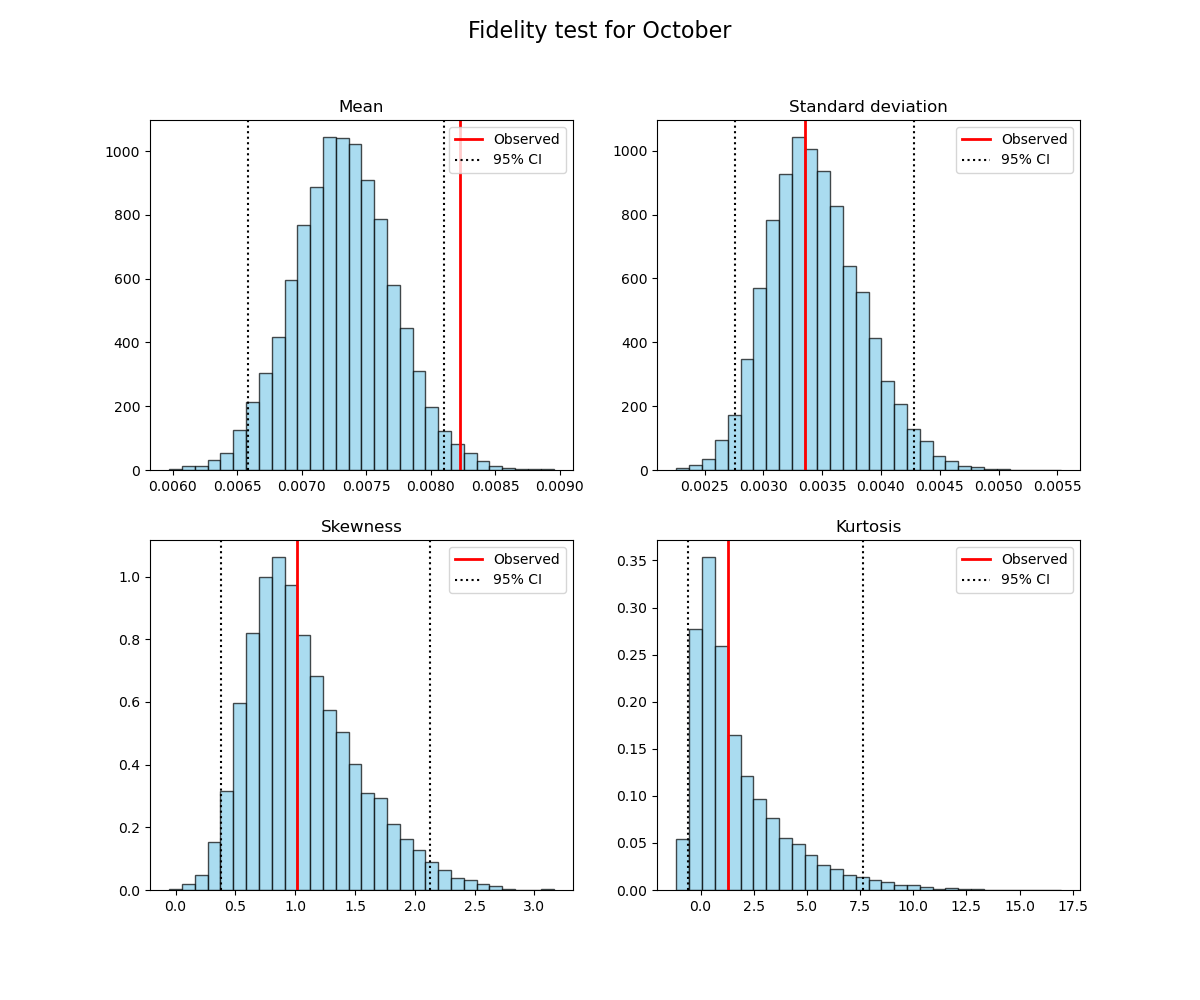
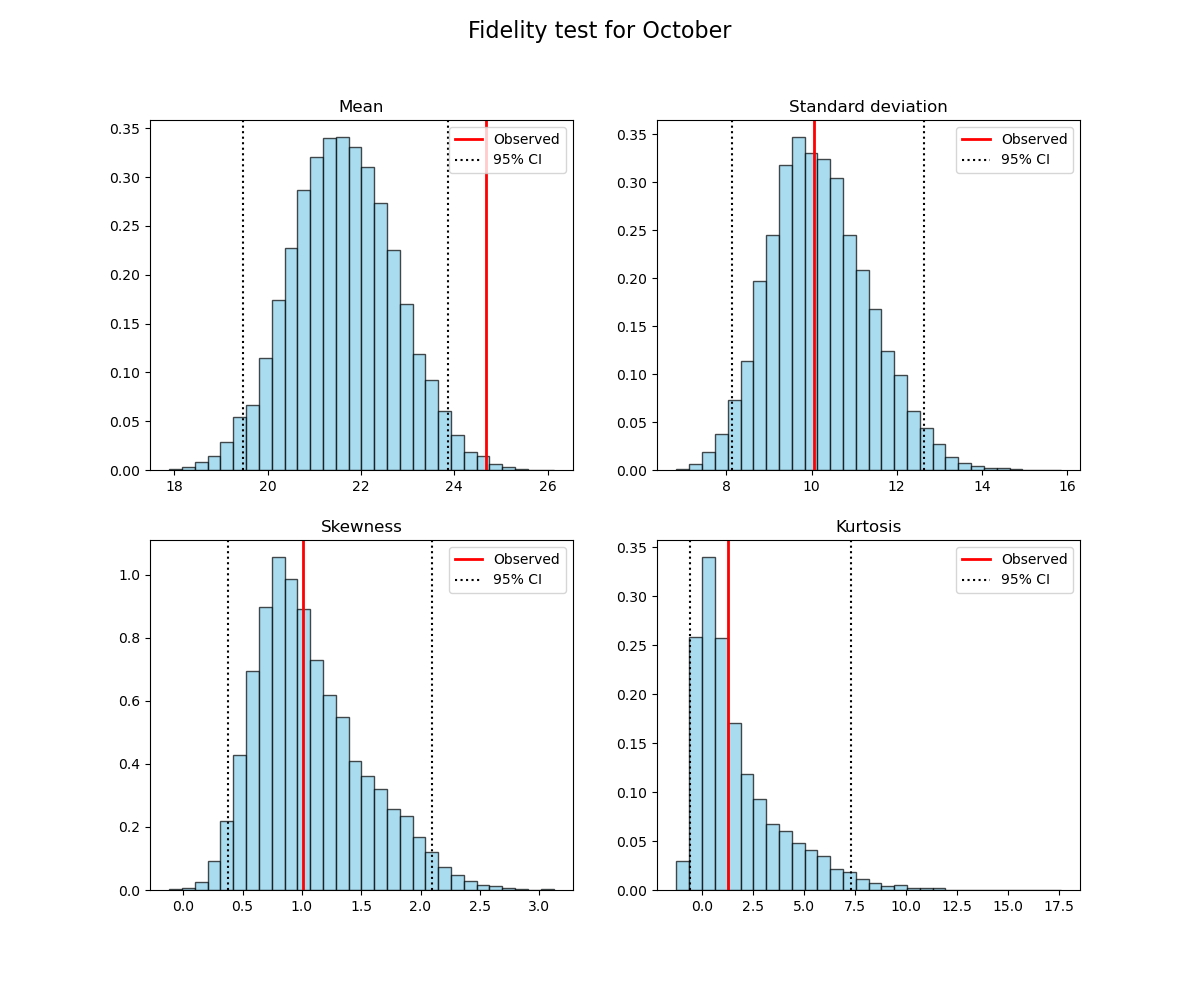
Correction of the distributions mean

diff --git a/unseen_protocol/preprocess.py b/unseen_protocol/preprocess.py
@@ -1,6 +1,6 @@
 #
 # Run some preprocessing over the data, ie:
-#   - averaging over 3 consecutive days
+#   - accumulating over 3 consecutive days
 #   - selecting the max for each month and determine the overlap month
 #
 
@@ -8,7 +8,7 @@ from sys import argv
 
 import xarray as xr
 import numpy as np
-from weatherdata import date_as_int, mean_over_time
+from weatherdata import date_as_int, sum_over_time
 
 
 
@@ -16,39 +16,6 @@ from weatherdata import date_as_int, mean_over_time
 #
 #       Functions
 #
-
-# def rolling_by_htime_group(group, winSpan: int = 3):
-#     #
-#     # The function was written by chatGPT
-#     #
-#
-#     # Get sorted indices by htime (just in case)
-#     sorter = np.argsort(group['htime'].values)
-#
-#     # Sort group by htime
-#     group_sorted = group.isel(time=sorter)
-#     htime_sorted = group_sorted['htime']
-#
-#     # We'll apply rolling manually along the 'time' axis
-#     values = group_sorted.values
-#     rolled = np.full_like(values, np.nan)
-#
-#     # Looping over each time index to compute rolling mean
-#     for i in range(0, len(htime_sorted)-winSpan):
-#         # Get window of size winSpan expanding on the right
-#         window = values[..., i:i+winSpan]
-#         if window.shape[-1] == winSpan:
-#             rolled[..., i] = np.nanmean(window, axis=-1)
-#
-#     # Put the rolled data back into a DataArray
-#     result = group_sorted.copy(data=rolled)
-#     return result
-#
-# def rolling_mean_over_htime(
-#         da: xr.DataArray,
-# ) -> xr.DataArray:
-#     da = xr.concat([rolling_by_htime_group(grp) for _, grp in da.groupby('fdate')], dim='time')
-#     return da.sortby('time')
 
 
 def determine_overlap_month(
@@ -103,6 +70,7 @@ def maximize(
         ],
         dim="idate"
     )
+    olMonths.values = olMonths.values.astype(int)
 
     return xr.Dataset(
         data_vars=dict(
@@ -132,7 +100,7 @@ if __name__ == '__main__':
         files="full"
 
     res = maximize(
-        mean_over_time(
+        sum_over_time(
             data, span=3, edges=False
         )
     )

diff --git a/unseen_protocol/correction_1.py b/unseen_protocol/correction_1.py
@@ -1,0 +1,81 @@
+# 
+# Apply the first correction to the unseen protocol.
+# It will correct the data by adjusting the mean of the 
+# modelled distributions to the mean of the observed distribution.
+#
+
+from sys import argv
+import xarray as xr
+import numpy as np
+
+from numpy.typing import NDArray
+
+
+
+#
+#       Correction array
+#
+
+corrections = np.array([
+    0,      # Index adjusting
+    0,      # January
+    0,      # February
+    0,      # March
+    0,      # April
+    4.5,    # May
+    7,      # June
+    10,     # July
+    9.5,    # August
+    8,      # September
+    3,      # October
+    0,      # November
+    0,      # December
+])
+
+
+
+#
+#       Function
+#
+
+def main(
+        ds: xr,
+        shift: NDArray,
+) -> xr.Dataset:
+    """
+    Add the wanted corretion to the data.
+
+    Parameters:
+        ds : Processed data
+        shift : Array of bias corrections for each month
+
+    Returns:
+        Corrected data
+    """
+
+    addVals: NDArray = shift[
+        ds['month'].values
+    ]
+
+    ds['tp24'].values += addVals
+
+    return ds
+
+
+#
+#       Running script
+#
+
+if __name__ == "__main__":
+
+    if len(argv) >= 2 and argv[1] == "forecast":
+        selector = "forecast"
+    elif len(argv) >= 2 and argv[1] == "hindcast":
+        selector = "hindcast"
+    else:
+        selector = "full"
+
+    data = xr.open_dataset("data/processed-"+selector+".nc")
+
+    res = main(data, corrections)
+    res.to_netcdf("data/corrected-"+selector+".nc")

diff --git a/unseen_protocol/test_fidelity.py b/unseen_protocol/test_fidelity.py
@@ -7,6 +7,7 @@
 #
 
 import os
+from sys import argv
 
 import matplotlib.pyplot as plt
 import numpy as np
@@ -31,8 +32,11 @@ def bootstrap_samples(
     Select random samples of mod_da elements, matching the shape of rea_da.
 
     :param size: size of the bootstraps samples.
+    
     :param ds_mod: modelled data.
+    
     :param month: working month.
+    
     :param sample_nb: number of bootstrap samples to create.
     """
 
@@ -111,8 +115,10 @@ def plot(
 
     :param reaAttrs: Attributes of the reanalysis distribution for each month
         of the May-October period. The shape must be (6, 4).
+        
     :param modAttrs: Attributes of the bootstrapped modelled data for each month
         and each bootstrap sample. The shape must be (6, 4, bsNb).
+        
     :param save_dir: Directory to save the plots.
     """
 
@@ -152,5 +158,11 @@ def plot(
 import time
 
 if __name__ == "__main__":
-    rea, mod = main()
-    plot(rea, mod)
+
+    if len(argv) >= 2 and argv[1]=="corrected":
+        rea, mod = main("data/corrected-full.nc")
+        plot(rea, mod, save_dir="corrected_results")
+    else:
+
+        rea, mod = main()
+        plot(rea, mod)

diff --git a/unseen_protocol/test_independence.py b/unseen_protocol/test_independence.py
@@ -12,7 +12,7 @@ import matplotlib.pyplot as plt
 import seaborn as sns
 import os
 
-from weatherdata import spear_distrib, mean_over_time
+from weatherdata import pears_distrib, sum_over_time
 
 
 
@@ -104,7 +104,7 @@ def correlation(
         mData = data.where(data.time['time.month'] == mId+5, drop=True)
         for lt in data.time.values:
             c = xr.apply_ufunc(
-                spear_distrib,
+                pears_distrib,
                 mData.where(mData.lead_time==lt, drop=True),
                 input_core_dims=[ [ "number", "time" ] ],
                 output_core_dims=[ [ "corrs" ] ],
@@ -197,7 +197,7 @@ if __name__ == "__main__":
     plot_correlations(
         correlation(
             preprocess(
-                mean_over_time(
+                sum_over_time(
                     da, span=3, edges=False
                 )
             )

diff --git a/unseen_protocol/retrieve_rea_data.py b/unseen_protocol/retrieve_rea_data.py
@@ -10,7 +10,7 @@ import pickle
 
 from weatherdata.classes import Weatherset
 from weatherdata.geographics import apply_curv_weights
-from weatherdata import mean_over_time
+from weatherdata import sum_over_time
 
 
 
@@ -30,11 +30,13 @@ def process_file(
         latitude = slice(62.5, 60.5),
         longitude = slice(9,11.75)
     )
-    return apply_curv_weights(
+    da = apply_curv_weights(
             da
     ).mean(
         dim=["latitude", "longitude"]
     )
+    da.values *= 1000
+    return da
 
 def main() -> xr.DataArray:
     """
@@ -61,9 +63,7 @@ def main() -> xr.DataArray:
             dim='time'
         )
 
-    return mean_over_time(
-        da_res, span=3, edges=False
-    )
+    return da_res
 
 
 

diff --git a/weatherdata/__init__.py b/weatherdata/__init__.py
@@ -185,7 +185,29 @@ def mean_over_time(
             0, len(rolling_obj['time'].values - span + 1)
             )
         )
+    return rolling_obj
 
+def sum_over_time(
+        data: xr.DataArray,
+        span: int,
+        edges: bool = True,
+) -> xr.DataArray:
+    if "time" not in data.dims:
+        raise ValueError(
+            "Le DataArray doit avoir une dimension 'time'.")
+
+    rolling_obj = data.rolling(
+        time=span,
+        center=True,
+        min_periods=1,
+    ).sum("time")
+
+    if not edges:
+        rolling_obj = rolling_obj.shift(time=-span//2).isel(
+            time=slice(
+            0, len(rolling_obj['time'].values - span + 1)
+            )
+        )
     return rolling_obj
 
 

diff --git a/unseen_protocol/rea_maxs.py b/unseen_protocol/rea_maxs.py
@@ -6,6 +6,8 @@
 import xarray as xr
 import numpy as np
 
+from weatherdata import sum_over_time
+
 
 
 ###############################################################
@@ -74,7 +76,7 @@ def main(
     """
 
     if not vals:
-        vals = xr.open_dataarray('data/retrieved-rea.nc')
+        vals = sum_over_time(xr.open_dataarray('data/retrieved-rea.nc'), span=3, edges=False)
 
     yearsCoords: np.ndarray = np.arange(
         np.datetime64('1941'),

diff --git a/unseen_protocol/test_stability.py b/unseen_protocol/test_stability.py
@@ -157,7 +157,7 @@ def plot_kde_distributions(
 
         plt.title(f'KDE Distributions for {month}')
         plt.xlabel('Precipitations')
-        plt.xlim(-0.003,0.017)
+        # plt.xlim(-0.003,0.017)
         plt.ylabel('Density')
         plt.legend()
         plt.grid(True)

diff --git a/unseen_protocol/retrieve_modelled_data.py b/unseen_protocol/retrieve_modelled_data.py
@@ -175,6 +175,7 @@ def main() -> xr.DataArray:
             dim="idate"
         )
 
+    da_res.values *= 1000
     da_res.name = "tp24"
 
     # Save the DataArray
